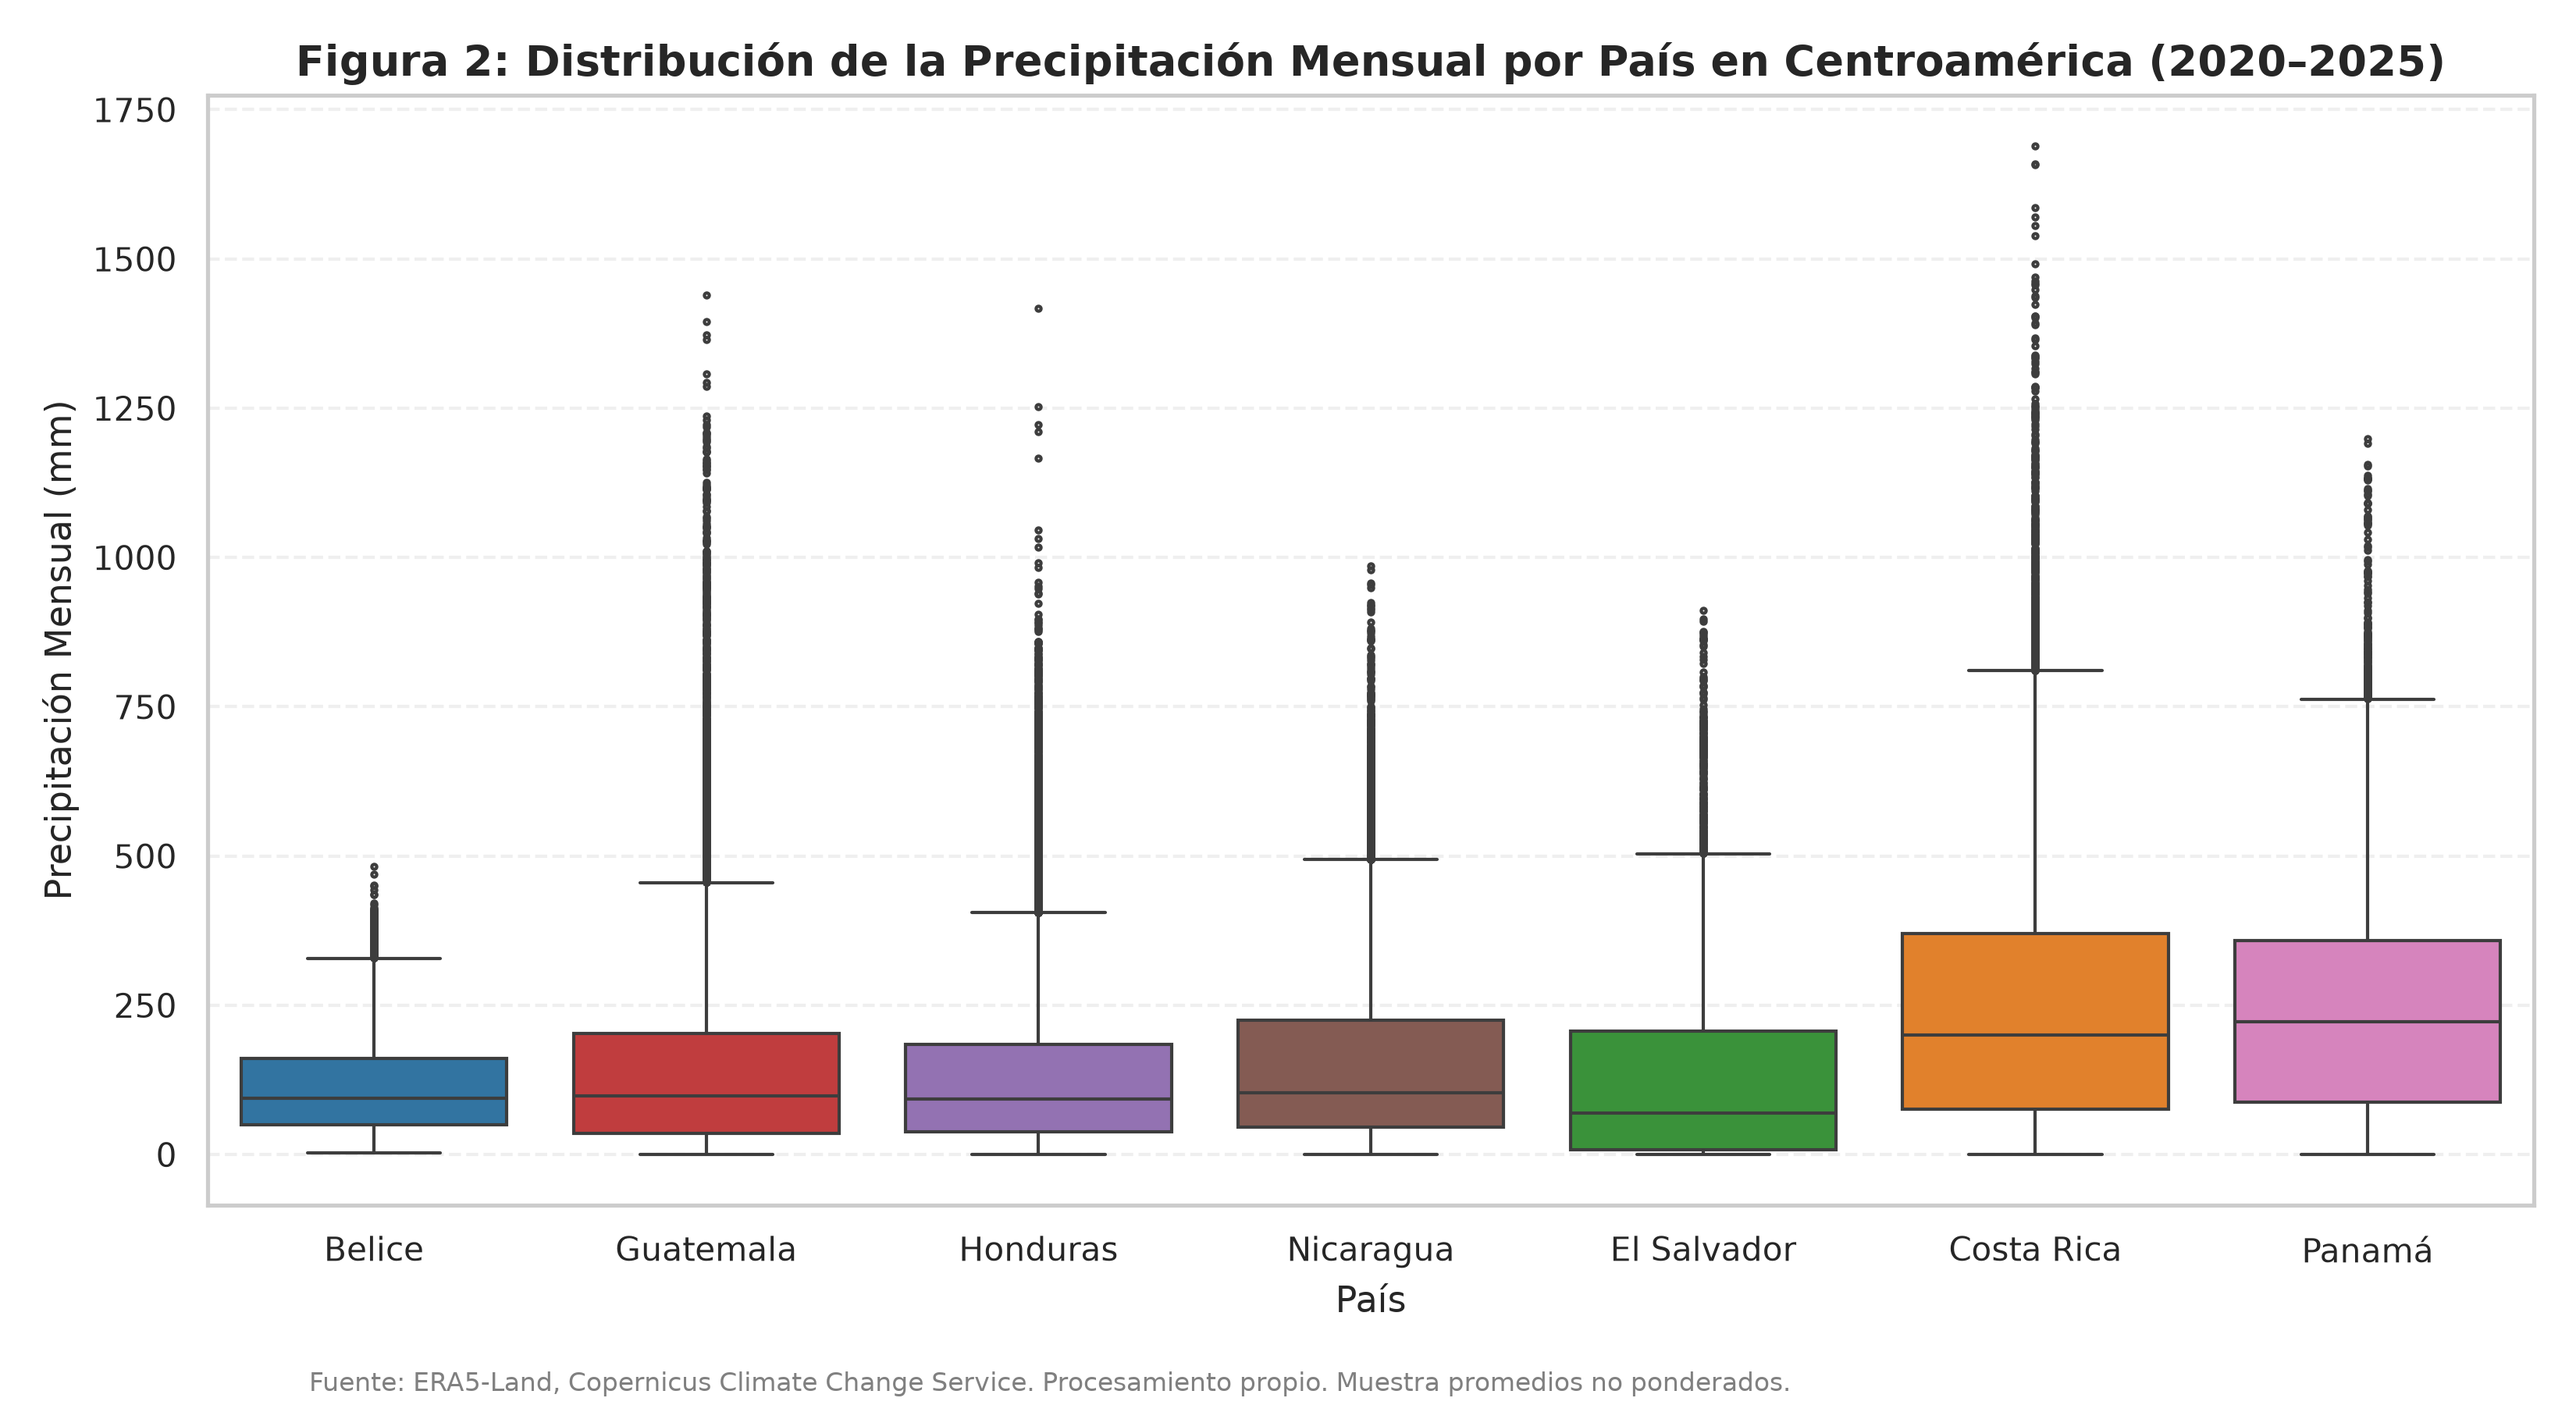
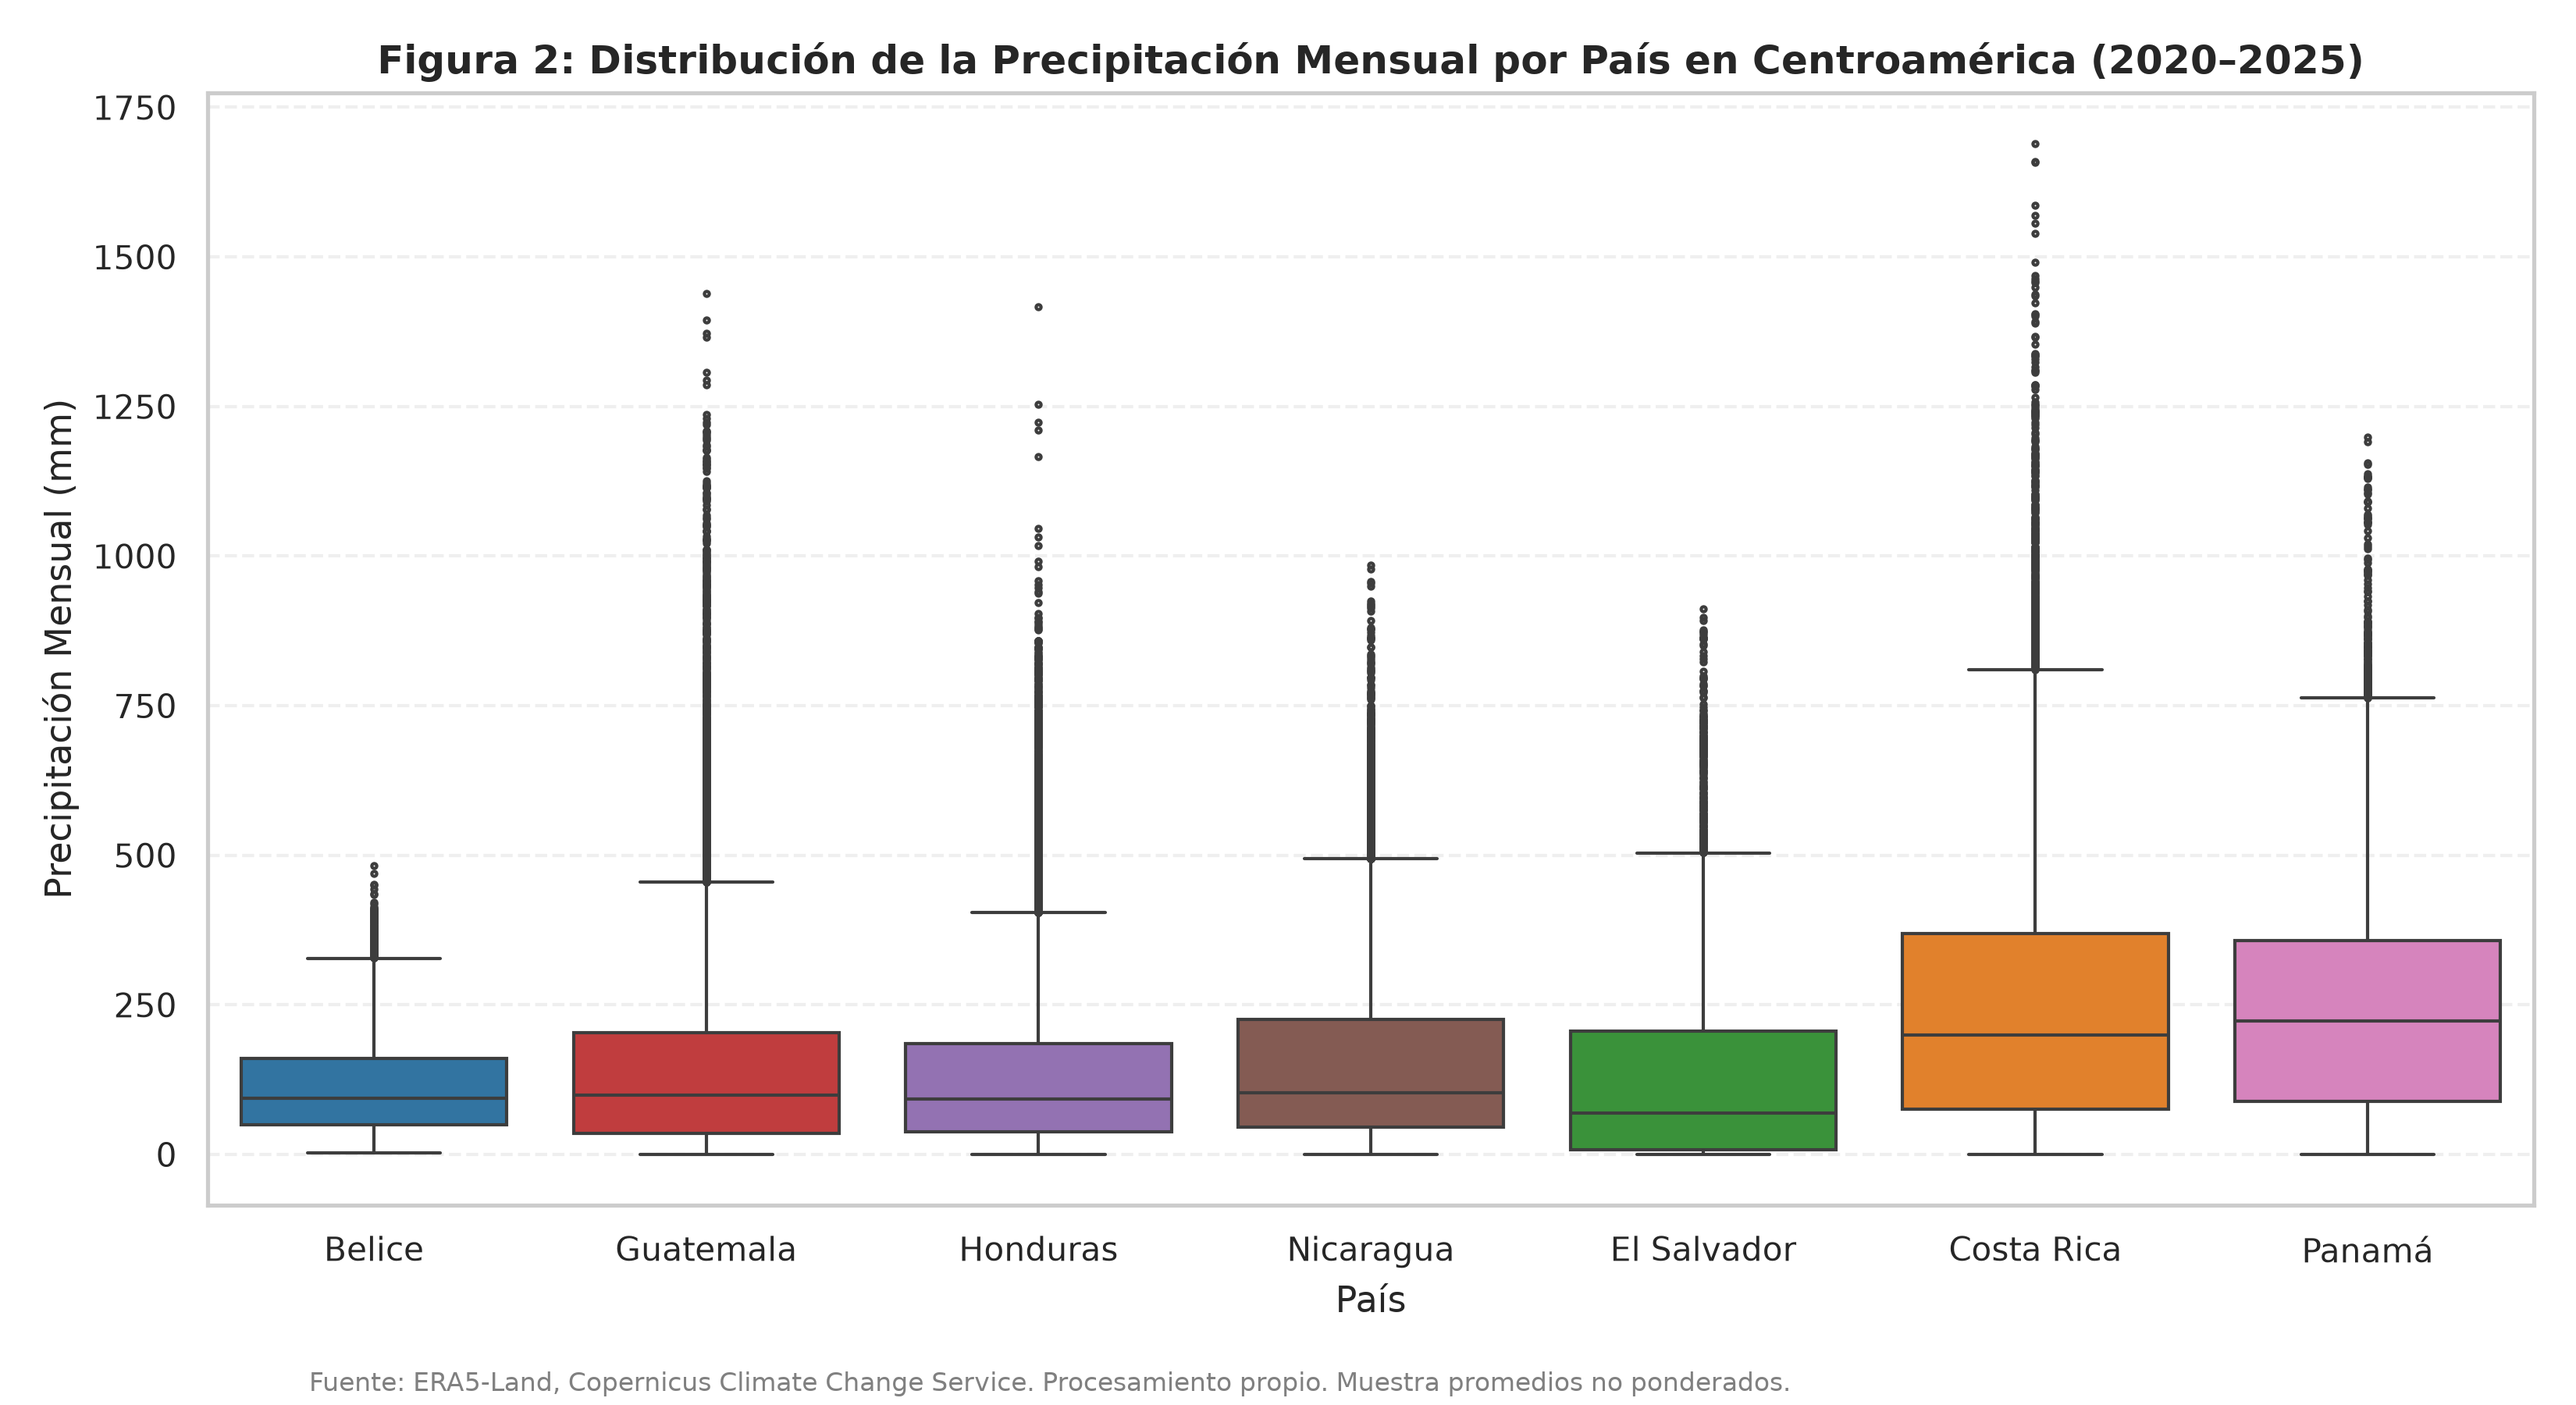
refactor: update global plot styling and adjust figure layouts for consistent formatting

diff --git a/scripts_clima/04_clasificacion_y_espacial.py b/scripts_clima/04_clasificacion_y_espacial.py
@@ -33,15 +33,14 @@ def main():
             edgecolors="none",
             s=25
         )
-        
-    ax.set_title("Figura 4: Distribución Geográfica de Puntos Observacionales de ERA5-Land por País")
+    ax.set_title("Figura 4: Distribución Geográfica de Puntos Observacionales\nde ERA5-Land por País", pad=15)
     ax.set_xlabel("Longitud (°)")
     ax.set_ylabel("Latitud (°)")
     ax.legend(title="País", loc="lower left")
     
-    fig.text(0.12, 0.01, "Fuente: ERA5-Land, Copernicus Climate Change Service. Promedios 2020–2025 por coordenada.", fontsize=8, color="gray")
+    fig.text(0.12, 0.02, "Fuente: ERA5-Land, Copernicus Climate Change Service. Promedios 2020–2025 por coordenada.", fontsize=8, color="gray")
     
-    plt.tight_layout(rect=[0, 0.03, 1, 1])
+    plt.tight_layout(rect=[0, 0.05, 1, 0.95])
     ruta_fig4 = config.FIGURES_DIR / "fig4_dispersion_geografica.png"
     plt.savefig(ruta_fig4, dpi=300)
     plt.close()
@@ -90,7 +89,7 @@ def main():
     ct_beaufort.round(2).to_csv(ruta_beaufort)
     print(f"\n[Actividad 10] Clasificación Beaufort guardada en: {ruta_beaufort}")
     
-    fig, ax = plt.subplots(figsize=(11, 6))
+    fig, ax = plt.subplots(figsize=(11, 6.5))
     
     ct_beaufort.plot(
         kind="bar",
@@ -101,15 +100,15 @@ def main():
         linewidth=0.5
     )
     
-    ax.set_title("Figura 5: Distribución Proporcional (100%) de la Velocidad del Viento según Escala Beaufort")
+    ax.set_title("Figura 5: Distribución Proporcional (100%) de la Velocidad del Viento\nsegún Escala Beaufort por País", pad=15)
     ax.set_xlabel("País")
     ax.set_ylabel("Porcentaje (%)")
     ax.legend(title="Categoría Beaufort", bbox_to_anchor=(1.02, 1), loc="upper left")
     plt.xticks(rotation=0)
     
-    fig.text(0.12, 0.01, "Fuente: ERA5-Land, Copernicus Climate Change Service. Clasificación según Escala Beaufort en m/s.", fontsize=8, color="gray")
+    fig.text(0.12, 0.02, "Fuente: ERA5-Land, Copernicus Climate Change Service. Clasificación según Escala Beaufort en m/s.", fontsize=8, color="gray")
     
-    plt.tight_layout(rect=[0, 0.03, 1, 1])
+    plt.tight_layout(rect=[0, 0.05, 1, 0.95])
     ruta_fig5 = config.FIGURES_DIR / "fig5_beaufort_apiladas.png"
     plt.savefig(ruta_fig5, dpi=300)
     plt.close()
@@ -118,7 +117,7 @@ def main():
     # --------------------------------------------------------------------------
     # ACTIVIDAD 12 & FIGURA OBLIGATORIA 6: Mapa Climático Regional
     # --------------------------------------------------------------------------
-    fig, ax = plt.subplots(figsize=(10, 8))
+    fig, ax = plt.subplots(figsize=(11, 7.5))
     
     scatter = ax.scatter(
         df_coords["longitude"],
@@ -133,13 +132,13 @@ def main():
     cbar = plt.colorbar(scatter, ax=ax, shrink=0.7)
     cbar.set_label("Temperatura Promedio (°C)")
     
-    ax.set_title("Figura 6: Mapa Climático Regional – Temperatura Promedio 2020–2025 en Centroamérica")
+    ax.set_title("Figura 6: Mapa Climático Regional – Temperatura Promedio 2020–2025\nen Centroamérica", pad=15)
     ax.set_xlabel("Longitud (°)")
     ax.set_ylabel("Latitud (°)")
     
-    fig.text(0.12, 0.01, "Fuente: ERA5-Land, Copernicus Climate Change Service. Promedio multianual 2020–2025 por coordenada.", fontsize=8, color="gray")
+    fig.text(0.12, 0.02, "Fuente: ERA5-Land, Copernicus Climate Change Service. Promedio multianual 2020–2025 por coordenada.", fontsize=8, color="gray")
     
-    plt.tight_layout(rect=[0, 0.03, 1, 1])
+    plt.tight_layout(rect=[0, 0.05, 1, 0.95])
     ruta_fig6 = config.FIGURES_DIR / "fig6_mapa_climatico.png"
     plt.savefig(ruta_fig6, dpi=300)
     plt.close()

diff --git a/scripts_clima/02_descripcion_variables.py b/scripts_clima/02_descripcion_variables.py
@@ -82,7 +82,7 @@ def main():
     # --------------------------------------------------------------------------
     # FIGURA OBLIGATORIA 1: Histograma de Distribución
     # --------------------------------------------------------------------------
-    fig, ax = plt.subplots(figsize=(10, 6))
+    fig, ax = plt.subplots(figsize=(11, 6.5))
     
     # Histograma con KDE para temperatura
     sns.histplot(
@@ -102,15 +102,15 @@ def main():
     ax.axvline(mean_temp, color="#d62728", linestyle="--", linewidth=2, label=f"Media ({mean_temp:.2f} °C)")
     ax.axvline(median_temp, color="#2ca02c", linestyle="-.", linewidth=2, label=f"Mediana ({median_temp:.2f} °C)")
     
-    ax.set_title("Figura 1: Distribución Regional de la Temperatura Media Mensual en Centroamérica (2020–2025)")
+    ax.set_title("Figura 1: Distribución Regional de la Temperatura Media Mensual\nen Centroamérica (2020–2025)", pad=15)
     ax.set_xlabel("Temperatura (°C)")
     ax.set_ylabel("Frecuencia (Número de Observaciones)")
     ax.legend(title="Medidas Centrales", loc="upper left")
     
     # Nota de Fuente
-    fig.text(0.12, 0.01, "Fuente: ERA5-Land, Copernicus Climate Change Service. Procesamiento propio.", fontsize=8, color="gray")
+    fig.text(0.12, 0.02, "Fuente: ERA5-Land, Copernicus Climate Change Service. Procesamiento propio.", fontsize=8, color="gray")
     
-    plt.tight_layout(rect=[0, 0.03, 1, 1])
+    plt.tight_layout(rect=[0, 0.05, 1, 0.95])
     ruta_fig1 = config.FIGURES_DIR / "fig1_histograma_distribucion.png"
     plt.savefig(ruta_fig1, dpi=300)
     plt.close()

diff --git a/scripts_clima/config.py b/scripts_clima/config.py
@@ -77,13 +77,14 @@ PAIS_COLORS = {
 
 def apply_custom_style():
     """Aplica configuraciones visuales profesionales a Matplotlib y Seaborn."""
+    # pyrefly: ignore [missing-import]
     import matplotlib.pyplot as plt
     import seaborn as sns
     
     sns.set_theme(style="whitegrid", palette="muted")
-    plt.rcParams["figure.figsize"] = (10, 6)
+    plt.rcParams["figure.figsize"] = (11, 6.5)
     plt.rcParams["figure.dpi"] = 300
-    plt.rcParams["axes.titlesize"] = 13
+    plt.rcParams["axes.titlesize"] = 12
     plt.rcParams["axes.titleweight"] = "bold"
     plt.rcParams["axes.labelsize"] = 11
     plt.rcParams["xtick.labelsize"] = 10
